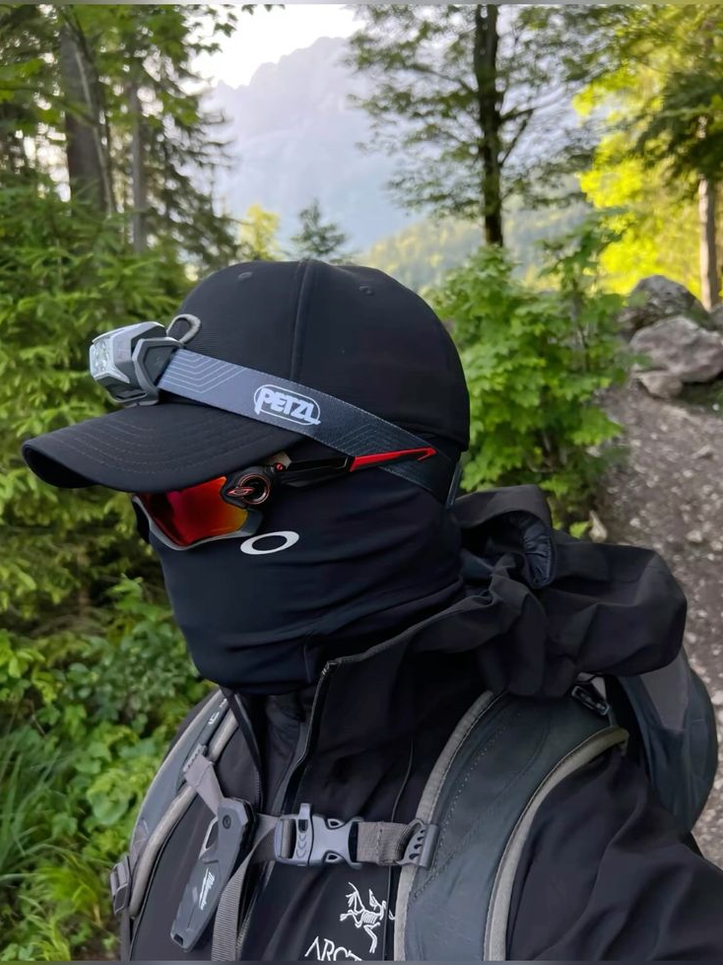
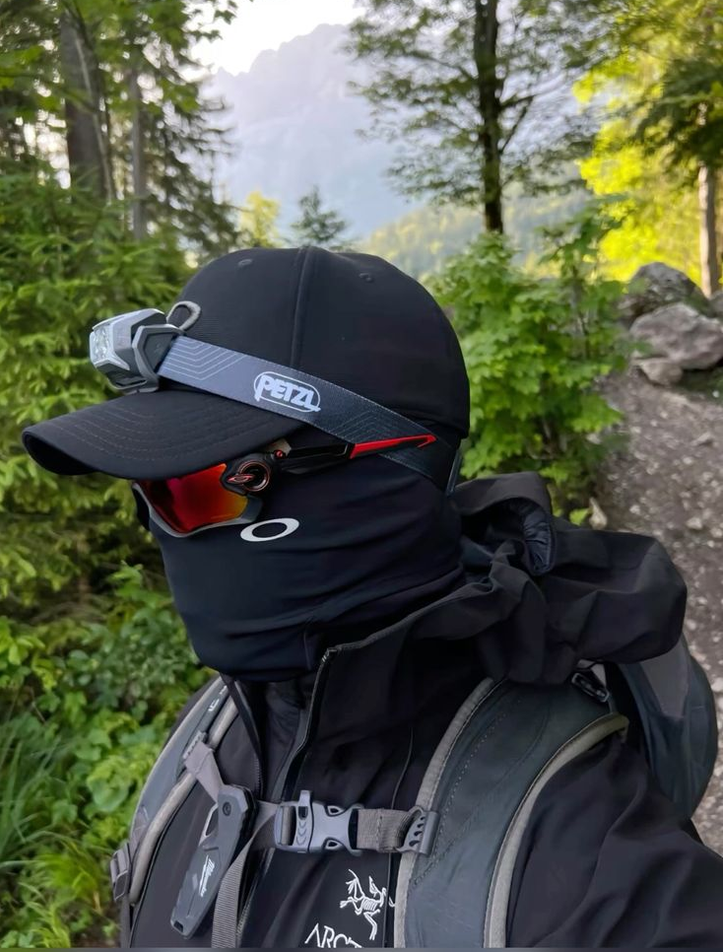
add style cards

diff --git a/css/fleece/fleece.scss b/css/fleece/fleece.scss
@@ -243,18 +243,36 @@ ul {
 	}
 }
 
-.featured-card:nth-child(even) {
-	flex-direction: row-reverse;
-}
 .featured {
+	padding: 30px 0 0 0;
+	&__list {
+		display: flex;
+		flex-direction: column;
+	}
+}
+
+.featured-card {
 	align-items: center;
 	display: flex;
-	left: 0;
-	top: 0;
-	z-index: 100;
-	width: 100%;
-	padding: 40px 0 0 0;
-	animation: fadeDown 0.7s 0.2s ease both;
-	&__title {
+
+	&__content {
+		padding: 0 20px 0 20px;
+		flex: 1;
+	}
+
+	&__image {
+		height: 900px;
+		flex: 1;
+
+		img {
+			height: 100%;
+			width: 100%;
+			object-fit: cover;
+		}
+	}
+
+	// чётные карточки — картинка идёт первой
+	&:nth-child(even) {
+		flex-direction: row-reverse;
 	}
 }

diff --git a/html/fleece.html b/html/fleece.html
@@ -41,10 +41,8 @@
 			<section class="hero__list"></section>
 		</section>
 
-		<section class="featured">
+		<section id="story" class="featured">
 			<div class="container">
-				<h2 class="featured__title">Featured Products</h2>
-
 				<div class="featured__list">
 					<article class="featured-card">
 						<div class="featured-card__content">

diff --git a/css/fleece.min.css b/css/fleece.min.css
@@ -1,1 +1,1 @@
-@import"https://fonts.googleapis.com/css2?family=Space+Grotesk:wght@300;400;500;700&family=Anton&display=swap";:root{--main-white: #ffffff;--main-black: #000000;--main-gray: #979595;--secondary-color: #63103a;--orange: #ff6600}*,*::before,*::after{margin:0;padding:0;-webkit-box-sizing:border-box;box-sizing:border-box}html{font-family:"Space Grotesk",sans-serif;scroll-behavior:smooth}body{overflow-x:hidden;color:var(--main-black);background-color:var(--main-white);background-image:none}input,button,textarea,select{font-family:inherit}ul{list-style-type:none}@-webkit-keyframes fadeDown{from{-webkit-transform:translateY(-20px);transform:translateY(-20px);opacity:0}to{-webkit-transform:translateY(0);transform:translateY(0);opacity:1}}@keyframes fadeDown{from{-webkit-transform:translateY(-20px);transform:translateY(-20px);opacity:0}to{-webkit-transform:translateY(0);transform:translateY(0);opacity:1}}.reveal{-webkit-transition:opacity .8s ease,-webkit-transform .8s ease;transition:opacity .8s ease,-webkit-transform .8s ease;transition:opacity .8s ease,transform .8s ease;transition:opacity .8s ease,transform .8s ease,-webkit-transform .8s ease;-webkit-transform:translateY(40px);transform:translateY(40px);opacity:0}.reveal.in{-webkit-transform:translateY(0);transform:translateY(0);opacity:1}.btn{display:inline-block;padding:14px 36px;color:#fff;font-size:12px;font-weight:700;letter-spacing:1.5px;text-decoration:none;border:none;border-radius:2px;-webkit-animation:fadeDown .6s ease both;animation:fadeDown .6s ease both;-webkit-transition:background .25s,-webkit-transform .15s;transition:background .25s,-webkit-transform .15s;transition:background .25s,transform .15s;transition:background .25s,transform .15s,-webkit-transform .15s;cursor:pointer}.btn:hover{background:var(--red);-webkit-transform:translateY(-1px);transform:translateY(-1px)}.btn-dark{display:inline-block;padding:16px 44px;color:#fff;font-size:12px;font-weight:700;letter-spacing:1.5px;text-decoration:none;background:var(--primary);border:none;border-radius:2px;-webkit-transition:background .25s,-webkit-transform .15s;transition:background .25s,-webkit-transform .15s;transition:background .25s,transform .15s;transition:background .25s,transform .15s,-webkit-transform .15s;cursor:pointer}.btn-dark:hover{background:var(--red);-webkit-transform:translateY(-1px);transform:translateY(-1px)}.container{max-width:1120px;width:100%;margin:0 auto;padding:0 16px}.header{-webkit-box-align:center;-ms-flex-align:center;align-items:center;display:-webkit-box;display:-ms-flexbox;display:flex;left:0;position:absolute;top:0;z-index:100;width:100%;padding:40px 0 0 0;background:rgba(0,0,0,0);-webkit-animation:fadeDown .6s ease both;animation:fadeDown .6s ease both}.header__container{-webkit-box-align:center;-ms-flex-align:center;align-items:center;display:-webkit-box;display:-ms-flexbox;display:flex;-webkit-box-pack:justify;-ms-flex-pack:justify;justify-content:space-between;width:100%}.header__logo{color:var(--main-white);font-size:20px;font-weight:700;text-transform:uppercase}.header__list{display:-webkit-box;display:-ms-flexbox;display:flex;gap:34px}.header__link{position:relative;color:inherit;color:var(--main-white);font-size:16px;text-decoration:none;text-transform:uppercase}.header__link::after{bottom:-5px;left:0;position:absolute;height:2px;width:100%;background:var(--secondary-color);-webkit-transition:-webkit-transform .3s ease;transition:-webkit-transform .3s ease;transition:transform .3s ease;transition:transform .3s ease, -webkit-transform .3s ease;content:"";-webkit-transform:scaleX(0);transform:scaleX(0)}.header__link:hover::after{-webkit-transform:scaleX(1);transform:scaleX(1)}.hero{overflow:hidden;position:relative;min-height:100vh;width:100%;color:var(--main-white)}.hero__img{position:absolute;z-index:0;height:100%;width:100%;-webkit-filter:brightness(0.5);filter:brightness(0.5);inset:0}.hero__img img{display:block;height:100%;width:100%;-o-object-fit:cover;object-fit:cover;-o-object-position:center;object-position:center}.hero__list{position:relative;min-height:100vh;width:100%}.hero::after{position:absolute;z-index:1;background:-webkit-gradient(linear, left top, left bottom, from(rgba(0, 0, 0, 0.55)), color-stop(60%, rgba(0, 0, 0, 0.25)), to(rgba(0, 0, 0, 0.1)));background:linear-gradient(to bottom, rgba(0, 0, 0, 0.55) 0%, rgba(0, 0, 0, 0.25) 60%, rgba(0, 0, 0, 0.1) 100%);content:"";inset:0}.hero__content{-webkit-box-align:center;-ms-flex-align:center;align-items:center;display:-webkit-box;display:-ms-flexbox;display:flex;-webkit-box-pack:center;-ms-flex-pack:center;justify-content:center;position:relative;z-index:2;min-height:100vh;width:100%;padding:80px 16px 60px;text-align:center;-webkit-box-orient:vertical;-webkit-box-direction:normal;-ms-flex-direction:column;flex-direction:column}.hero__title{max-width:1000px;margin:0 0 24px 0;font-size:50px;font-weight:500;line-height:1.2;-webkit-animation:fadeDown .7s .2s ease both;animation:fadeDown .7s .2s ease both}.hero__text{max-width:800px;color:var(--main-white);font-size:32px;font-weight:400;line-height:1.4;-webkit-animation:fadeDown .7s .4s ease both;animation:fadeDown .7s .4s ease both}.featured-card:nth-child(even){-webkit-box-orient:horizontal;-webkit-box-direction:reverse;-ms-flex-direction:row-reverse;flex-direction:row-reverse}.featured{-webkit-box-align:center;-ms-flex-align:center;align-items:center;display:-webkit-box;display:-ms-flexbox;display:flex;left:0;top:0;z-index:100;width:100%;padding:40px 0 0 0;-webkit-animation:fadeDown .7s .2s ease both;animation:fadeDown .7s .2s ease both}
+@import"https://fonts.googleapis.com/css2?family=Space+Grotesk:wght@300;400;500;700&family=Anton&display=swap";:root{--main-white: #ffffff;--main-black: #000000;--main-gray: #979595;--secondary-color: #63103a;--orange: #ff6600}*,*::before,*::after{margin:0;padding:0;-webkit-box-sizing:border-box;box-sizing:border-box}html{font-family:"Space Grotesk",sans-serif;scroll-behavior:smooth}body{overflow-x:hidden;color:var(--main-black);background-color:var(--main-white);background-image:none}input,button,textarea,select{font-family:inherit}ul{list-style-type:none}@-webkit-keyframes fadeDown{from{-webkit-transform:translateY(-20px);transform:translateY(-20px);opacity:0}to{-webkit-transform:translateY(0);transform:translateY(0);opacity:1}}@keyframes fadeDown{from{-webkit-transform:translateY(-20px);transform:translateY(-20px);opacity:0}to{-webkit-transform:translateY(0);transform:translateY(0);opacity:1}}.reveal{-webkit-transition:opacity .8s ease,-webkit-transform .8s ease;transition:opacity .8s ease,-webkit-transform .8s ease;transition:opacity .8s ease,transform .8s ease;transition:opacity .8s ease,transform .8s ease,-webkit-transform .8s ease;-webkit-transform:translateY(40px);transform:translateY(40px);opacity:0}.reveal.in{-webkit-transform:translateY(0);transform:translateY(0);opacity:1}.btn{display:inline-block;padding:14px 36px;color:#fff;font-size:12px;font-weight:700;letter-spacing:1.5px;text-decoration:none;border:none;border-radius:2px;-webkit-animation:fadeDown .6s ease both;animation:fadeDown .6s ease both;-webkit-transition:background .25s,-webkit-transform .15s;transition:background .25s,-webkit-transform .15s;transition:background .25s,transform .15s;transition:background .25s,transform .15s,-webkit-transform .15s;cursor:pointer}.btn:hover{background:var(--red);-webkit-transform:translateY(-1px);transform:translateY(-1px)}.btn-dark{display:inline-block;padding:16px 44px;color:#fff;font-size:12px;font-weight:700;letter-spacing:1.5px;text-decoration:none;background:var(--primary);border:none;border-radius:2px;-webkit-transition:background .25s,-webkit-transform .15s;transition:background .25s,-webkit-transform .15s;transition:background .25s,transform .15s;transition:background .25s,transform .15s,-webkit-transform .15s;cursor:pointer}.btn-dark:hover{background:var(--red);-webkit-transform:translateY(-1px);transform:translateY(-1px)}.container{max-width:1120px;width:100%;margin:0 auto;padding:0 16px}.header{-webkit-box-align:center;-ms-flex-align:center;align-items:center;display:-webkit-box;display:-ms-flexbox;display:flex;left:0;position:absolute;top:0;z-index:100;width:100%;padding:40px 0 0 0;background:rgba(0,0,0,0);-webkit-animation:fadeDown .6s ease both;animation:fadeDown .6s ease both}.header__container{-webkit-box-align:center;-ms-flex-align:center;align-items:center;display:-webkit-box;display:-ms-flexbox;display:flex;-webkit-box-pack:justify;-ms-flex-pack:justify;justify-content:space-between;width:100%}.header__logo{color:var(--main-white);font-size:20px;font-weight:700;text-transform:uppercase}.header__list{display:-webkit-box;display:-ms-flexbox;display:flex;gap:34px}.header__link{position:relative;color:inherit;color:var(--main-white);font-size:16px;text-decoration:none;text-transform:uppercase}.header__link::after{bottom:-5px;left:0;position:absolute;height:2px;width:100%;background:var(--secondary-color);-webkit-transition:-webkit-transform .3s ease;transition:-webkit-transform .3s ease;transition:transform .3s ease;transition:transform .3s ease, -webkit-transform .3s ease;content:"";-webkit-transform:scaleX(0);transform:scaleX(0)}.header__link:hover::after{-webkit-transform:scaleX(1);transform:scaleX(1)}.hero{overflow:hidden;position:relative;min-height:100vh;width:100%;color:var(--main-white)}.hero__img{position:absolute;z-index:0;height:100%;width:100%;-webkit-filter:brightness(0.5);filter:brightness(0.5);inset:0}.hero__img img{display:block;height:100%;width:100%;-o-object-fit:cover;object-fit:cover;-o-object-position:center;object-position:center}.hero__list{position:relative;min-height:100vh;width:100%}.hero::after{position:absolute;z-index:1;background:-webkit-gradient(linear, left top, left bottom, from(rgba(0, 0, 0, 0.55)), color-stop(60%, rgba(0, 0, 0, 0.25)), to(rgba(0, 0, 0, 0.1)));background:linear-gradient(to bottom, rgba(0, 0, 0, 0.55) 0%, rgba(0, 0, 0, 0.25) 60%, rgba(0, 0, 0, 0.1) 100%);content:"";inset:0}.hero__content{-webkit-box-align:center;-ms-flex-align:center;align-items:center;display:-webkit-box;display:-ms-flexbox;display:flex;-webkit-box-pack:center;-ms-flex-pack:center;justify-content:center;position:relative;z-index:2;min-height:100vh;width:100%;padding:80px 16px 60px;text-align:center;-webkit-box-orient:vertical;-webkit-box-direction:normal;-ms-flex-direction:column;flex-direction:column}.hero__title{max-width:1000px;margin:0 0 24px 0;font-size:50px;font-weight:500;line-height:1.2;-webkit-animation:fadeDown .7s .2s ease both;animation:fadeDown .7s .2s ease both}.hero__text{max-width:800px;color:var(--main-white);font-size:32px;font-weight:400;line-height:1.4;-webkit-animation:fadeDown .7s .4s ease both;animation:fadeDown .7s .4s ease both}.featured{padding:30px 0 0 0}.featured__list{display:-webkit-box;display:-ms-flexbox;display:flex;-webkit-box-orient:vertical;-webkit-box-direction:normal;-ms-flex-direction:column;flex-direction:column}.featured-card{-webkit-box-align:center;-ms-flex-align:center;align-items:center;display:-webkit-box;display:-ms-flexbox;display:flex}.featured-card__content{padding:0 20px 0 20px;-webkit-box-flex:1;-ms-flex:1;flex:1}.featured-card__image{height:900px;-webkit-box-flex:1;-ms-flex:1;flex:1}.featured-card__image img{height:100%;width:100%;-o-object-fit:cover;object-fit:cover}.featured-card:nth-child(even){-webkit-box-orient:horizontal;-webkit-box-direction:reverse;-ms-flex-direction:row-reverse;flex-direction:row-reverse}